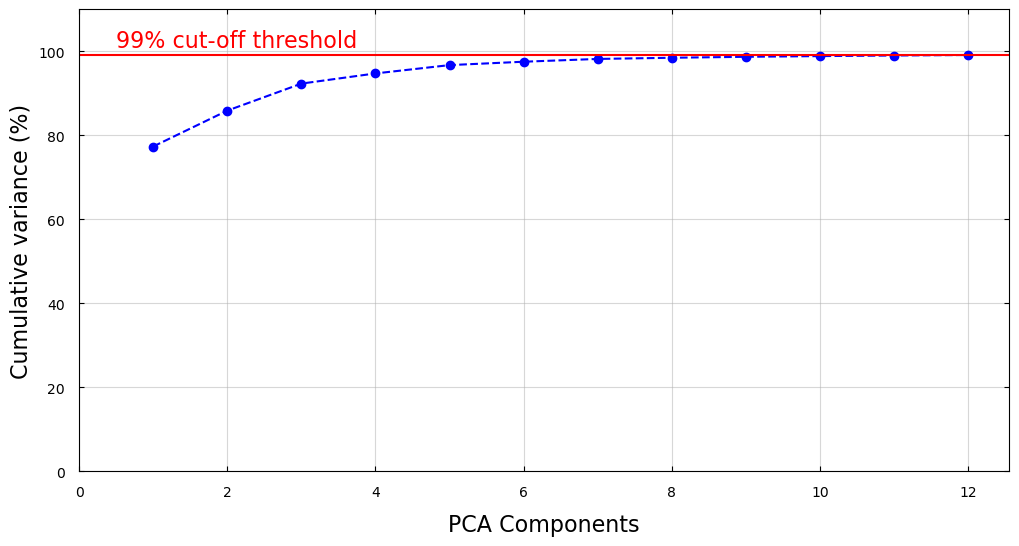
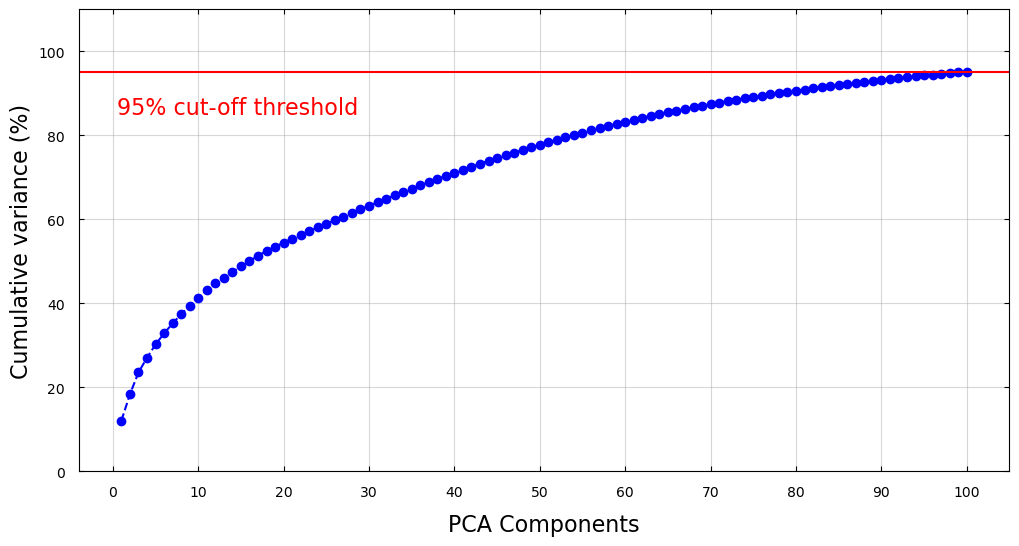
modify PCA in README.md

diff --git a/README.md b/README.md
@@ -70,10 +70,11 @@ For each feature, we replace missing data with the mean of the complete data tha
 3. Normalize data.
 Next, we normalize the data so that it has the range between 0 and 1. 
 
-## Data Visualization    
-Data visualization is an important step in machine learning. With a good visualization, we can discover trends, patterns, insights into the data. In this section, we attempt to visualize the AMEX dataset. This is a challenging task because of the large number of features. To ease this task, we reduce the dimensionality of the data by using _Principle Component Analysis (PCA)_. 
+## Dimensionality Reduction    
+Data visualization is an important step in machine learning. With a good visualization, we can discover trends, patterns, insights into the data. In this section, we attempt to visualize the AMEX dataset. This is a challenging task because of the large number of features. To ease this task, we reduce the dimensionality of the data by using _Principle Component Analysis (PCA)_ and _t-distributed stochastic neighbor embedding (t-SNE)_. 
 
-PCA identifies the combination of attributes, or principle components in the feature space, that explains the most variance in the data. Here, we plot the cumulative variance explained by the principle components of the AMEX dataset. To capture 95% of the variance, we need at least 43 components. 
+### PCA
+PCA identifies the combination of attributes, or principle components in the feature space, that explains the most variance in the data. Here, we plot the cumulative variance explained by the principle components of the AMEX dataset. To capture 95% of the variance, we need at least 100 components. 
 
 ![Cumulative Variances](images/pca/cumulative_variance.png)
 *Figure 1: Cumulative variances of PCA components.*
@@ -90,25 +91,25 @@ The next figure shows the relationship between the first seven PCA components. T
 
 *Figure 3: Training Data Projection on seven PCA Components with the Highest Variance.*
 
-### PCA and t-SNE results
-![2D Data Projection on PCA Components](images/pca/pca_projection_2D_amrit.png)
-*Figure 4: Training Data Projection on two PCA Components*
-
-![3D Data Projection on PCA Components](images/pca/pca_projection_3D_amrit.gif)
-*Figure 4: Training Data Projection on three PCA Components*
+### t-SNE
 
 ![2D Data Projection on tSNE Components](images/tsne/tsne_projection_2D_amrit.png)
+
 *Figure 4: Training Data Projection on two tSNE Components.*
 
 ![3D Data Projection on tSNE Components](images/tsne/tsne_projection_3D_amrit.gif)
-*Figure 4: Training Data Projection on three tSNE Components*
+
+*Figure 5: Training Data Projection on three tSNE Components*
 
 
 ## Methods:
 ### Unsupervised
 The role of unsupervised learning will be to understand the hidden data structures for better feature processing. 
-1) Clustering algorithms: visualize the data to allow better feature processing.
-2) Dimensionality reduction (PCA, tSNE and UMAP): Given a total of 190+ features, methods like tSNE and PCA can help visualize the data points and choose relevant features. Reduced feature count could also help boost training speed for supervised methods.
+-  Clustering algorithms: visualize the data to allow better feature processing.
+-  Dimensionality reduction (PCA, tSNE and UMAP): Given a total of 190+ features, methods like tSNE and PCA can help visualize the data points and choose relevant features. Reduced feature count could also help boost training speed for supervised methods.
+
+#### KMEANS
+Kmeans algorithm separates data into n clusters that minimizes the distance between the data points and the cluster centroids. Because our problem is a binary classification, we use Kmeans to divide our post-PCA processed data into two clusters and classify each cluster based on the majority of the votes of the k-nearest neighbors. 
 
 
 ### Supervised
@@ -171,8 +172,6 @@ In the Kaggle competition, the best-performing models achieve scores of 0.80 in 
 Our initial results show the M score around 0.94 in the validation set, but scores around 0.70 in the competition using the same training. Therefore, validation accuracy is not a true reflection of test accuracy in this setting.
 
 #### KMEANS
-
-The Kmeans algorithm separates data into n clusters that minimizes the distance between the data points and the cluster centroids. Because our problem is a binary classification, we use Kmeans to divide our post-PCA processed data into two clusters and classify each cluster based on the majority of the votes of the k-nearest neighbors. 
 
 Our Kmeans model has a silhouette score of __0.23__, a Beta-CV value of __0.23__, and a Davies-Boulder index of __2.64__. The close-to-zero silhouette score indicates an overlap between the two clusters. The small Beta-CV score suggests that the data points within each cluster are close to one another compared to the distance between the cluster means. The PCA component visualization shows the non-linear separation between the two classes. Being a non-parametric clustering model, KMeans may lack the power to give a finer separation between compliance and default customers.
 
